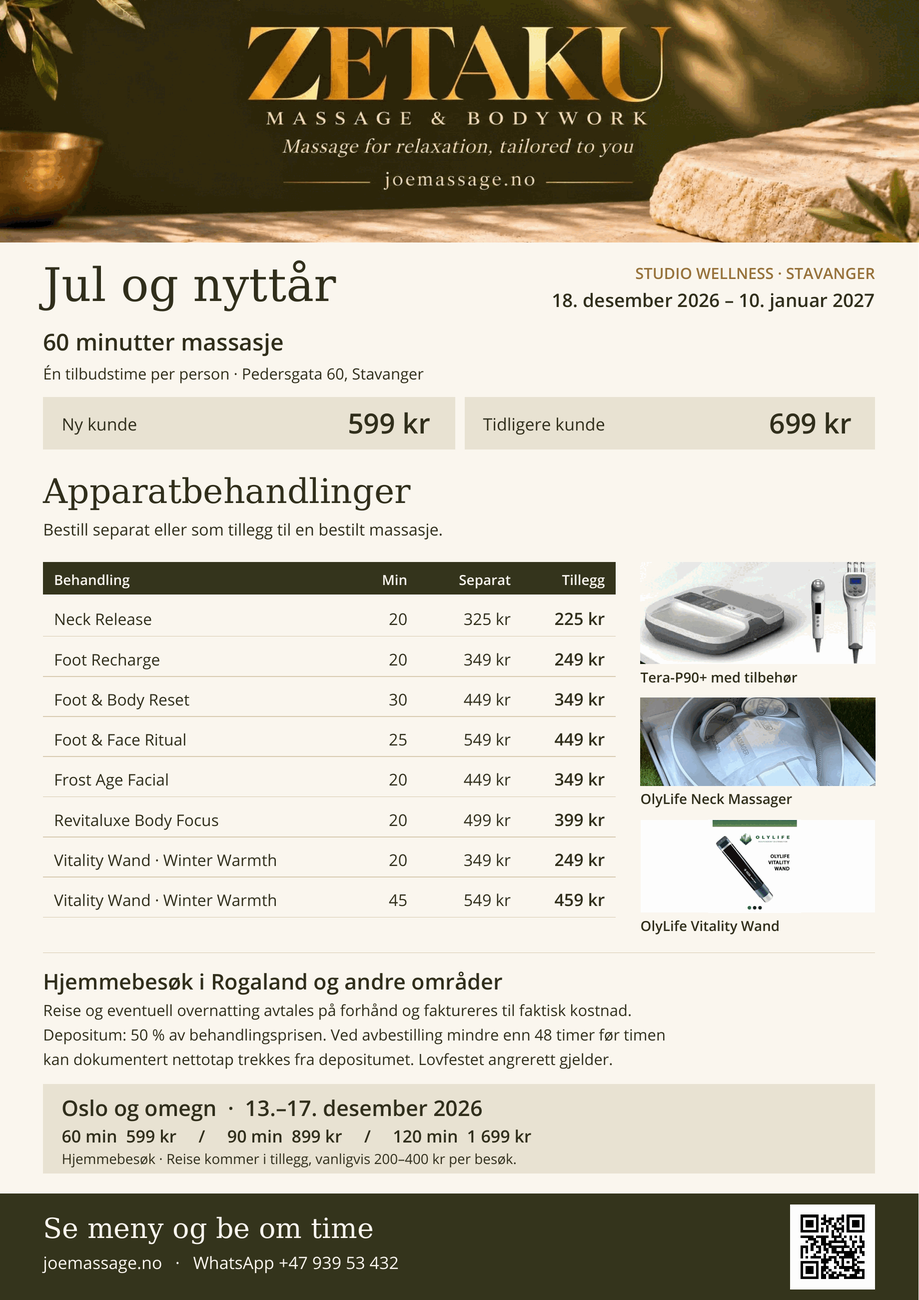
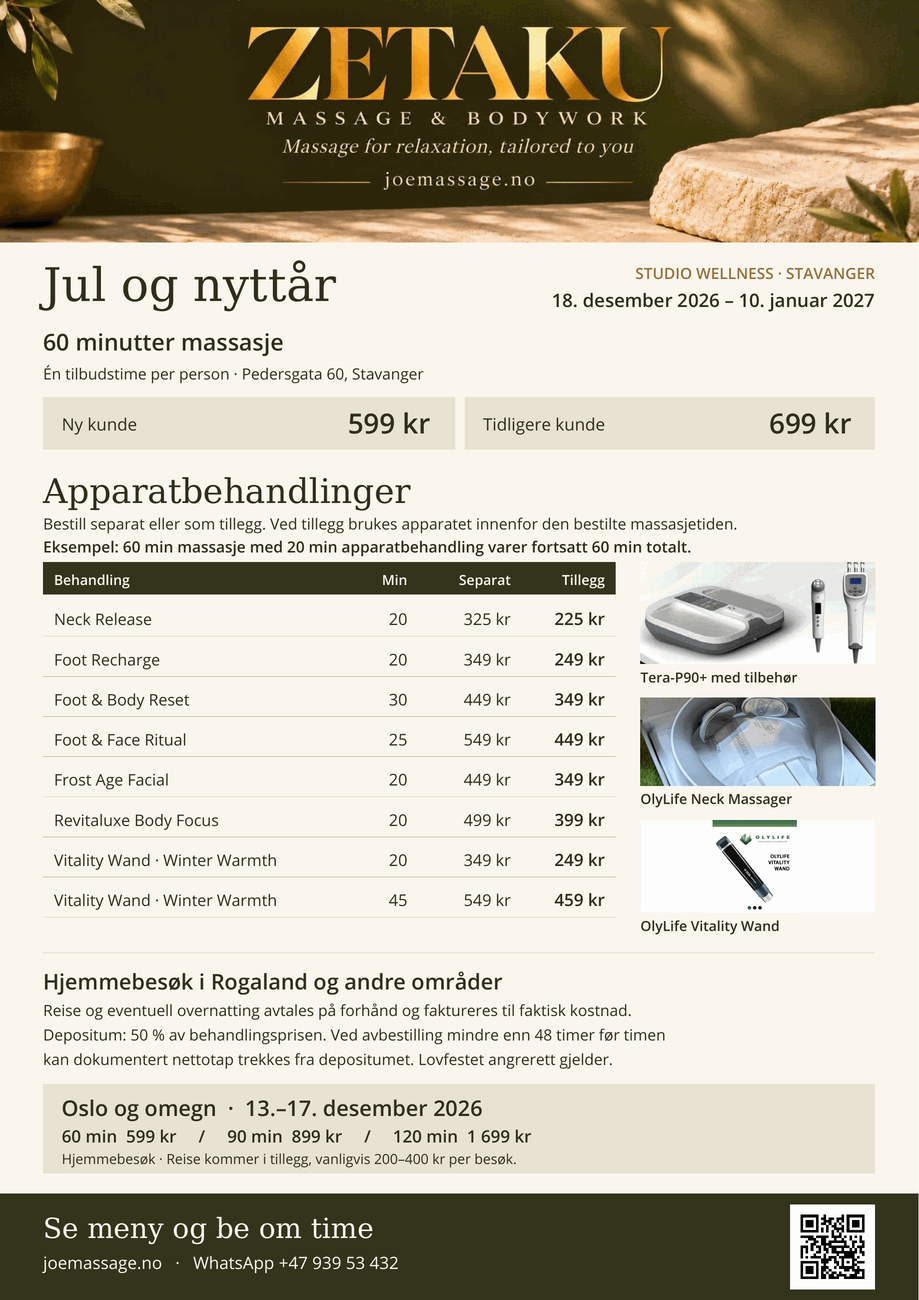
Count device add-ons within booked massage time on website, requests and posters

Changed region(s): [[0.031, 0.405, 0.7439, 0.4362]]

diff --git a/index.html b/index.html
@@ -223,7 +223,7 @@
                 </a>
                 <a class="link-btn inline-flex items-center justify-center px-6 py-4 rounded-2xl border-2 border-[#2C5F2D] font-semibold" href="#device-treatments">Device Treatments</a>
             </div>
-            <p class="mt-3 text-sm text-[#495649]">For an add-on, book your main massage session first. You can also book a device treatment on its own.</p>
+            <p class="mt-3 text-sm text-[#495649]">Book your main massage first. Any device add-on takes place within the time you book. You can also book a device treatment on its own.</p>
 
             <div class="mt-8 flex justify-center gap-6 text-sm text-[#6B766B]">
                 <div class="flex items-center gap-2">
@@ -262,13 +262,13 @@
 </tbody></table>
 <p><a href="#device-treatments" id="oslo-devices" class="font-semibold underline">Explore device sessions and massage add-ons</a></p>
 </div></section>
[1 lines of base64/hex data omitted]
-<details class="zt-card"><summary><span><strong>Foot Recharge</strong><small>Seated foot-platform session</small></span><b>20 min</b></summary><div class="zt-inner"><p>Rest your bare feet on the seated Tera-P90+ platform. OlyLife describes its two technologies as pulsed electromagnetic fields (PEMF) and terahertz (THz).</p><div class="zt-options"><div><small>Standalone session</small><strong>349 NOK</strong><small>Standard after launch 499 NOK</small><a aria-label="Request a session – Foot Recharge" href="https://wa.me/4793953432?text=Hi%20Joe!%20I%20would%20like%20to%20book%20a%20standalone%20Foot%20Recharge%20session%20(20%20min%2C%20launch%20price%20349%20NOK).%20My%20preferred%20date%20or%20existing%20booking%20is%3A%20">Request a session</a></div><div><small>Massage add-on</small><strong>249 NOK</strong><small>Standard after launch 399 NOK</small><a aria-label="Request an add-on – Foot Recharge" href="https://wa.me/4793953432?text=Hi%20Joe!%20I%20would%20like%20to%20add%20Foot%20Recharge%20to%20my%20existing%20massage%20booking%20(20%20min%2C%20launch%20price%20249%20NOK).%20My%20preferred%20date%20or%20existing%20booking%20is%3A%20">Request an add-on</a></div></div></div></details>
-<details class="zt-card"><summary><span><strong>Foot & Body Reset</strong><small>20 minutes for feet · 10 for one body area</small></span><b>30 min</b></summary><div class="zt-inner"><p>Rest your bare feet on the seated Tera-P90+ platform. OlyLife describes its two technologies as pulsed electromagnetic fields (PEMF) and terahertz (THz). Finish with ten minutes of Revitaluxe massage on one area of your choice. The Revitaluxe handheld massager combines pulsed, static and rotating magnetic fields with electrical muscle stimulation (EMS), transcutaneous electrical nerve stimulation (TENS) and red light. Bring your own OlyLife body gel and save 50 NOK on each appointment that uses it. A personal body gel is available for 400 NOK.</p><div class="zt-options"><div><small>Standalone session</small><strong>449 NOK</strong><small>Standard after launch 599 NOK</small><a aria-label="Request a session – Foot & Body Reset" href="https://wa.me/4793953432?text=Hi%20Joe!%20I%20would%20like%20to%20book%20a%20standalone%20Foot%20%26%20Body%20Reset%20session%20(30%20min%2C%20launch%20price%20449%20NOK).%20My%20preferred%20date%20or%20existing%20booking%20is%3A%20">Request a session</a></div><div><small>Massage add-on</small><strong>349 NOK</strong><small>Standard after launch 499 NOK</small><a aria-label="Request an add-on – Foot & Body Reset" href="https://wa.me/4793953432?text=Hi%20Joe!%20I%20would%20like%20to%20add%20Foot%20%26%20Body%20Reset%20to%20my%20existing%20massage%20booking%20(30%20min%2C%20launch%20price%20349%20NOK).%20My%20preferred%20date%20or%20existing%20booking%20is%3A%20">Request an add-on</a></div></div></div></details>
-<details class="zt-card"><summary><span><strong>Foot & Face Ritual</strong><small>Foot platform and facial care in one visit</small></span><b>25 min</b></summary><div class="zt-inner"><p>A 25-minute appointment combining the P90+ foot platform (PEMF and THz) with a Frost Age facial. The Frost Age facial device pairs radiofrequency (RF) with electrical muscle stimulation (EMS). Complimentary Korean skincare is optional. Choose studio cleansing and finishing products from RIMAN or REPOVE, or bring your own skincare for use before and after the device. Bring your own OlyLife facial gel and save 50 NOK on each appointment that uses it. A personal facial gel is available for 400 NOK.</p><div class="zt-options"><div><small>Standalone session</small><strong>549 NOK</strong><small>Standard after launch 699 NOK</small><a aria-label="Request a session – Foot & Face Ritual" href="https://wa.me/4793953432?text=Hi%20Joe!%20I%20would%20like%20to%20book%20a%20standalone%20Foot%20%26%20Face%20Ritual%20session%20(25%20min%2C%20launch%20price%20549%20NOK).%20My%20preferred%20date%20or%20existing%20booking%20is%3A%20">Request a session</a></div><div><small>Massage add-on</small><strong>449 NOK</strong><small>Standard after launch 599 NOK</small><a aria-label="Request an add-on – Foot & Face Ritual" href="https://wa.me/4793953432?text=Hi%20Joe!%20I%20would%20like%20to%20add%20Foot%20%26%20Face%20Ritual%20to%20my%20existing%20massage%20booking%20(25%20min%2C%20launch%20price%20449%20NOK).%20My%20preferred%20date%20or%20existing%20booking%20is%3A%20">Request an add-on</a></div></div></div></details>
-<details class="zt-card"><summary><span><strong>Frost Age Facial</strong><small>A dedicated facial session</small></span><b>20 min</b></summary><div class="zt-inner"><p>The Frost Age facial device pairs radiofrequency (RF) with electrical muscle stimulation (EMS). Complimentary Korean skincare is optional. Choose studio cleansing and finishing products from RIMAN or REPOVE, or bring your own skincare for use before and after the device. This facial is booked on its own, without the foot platform. Bring your own OlyLife facial gel and save 50 NOK on each appointment that uses it. A personal facial gel is available for 400 NOK.</p><div class="zt-options"><div><small>Standalone session</small><strong>449 NOK</strong><small>Standard after launch 599 NOK</small><a aria-label="Request a session – Frost Age Facial" href="https://wa.me/4793953432?text=Hi%20Joe!%20I%20would%20like%20to%20book%20a%20standalone%20Frost%20Age%20Facial%20session%20(20%20min%2C%20launch%20price%20449%20NOK).%20My%20preferred%20date%20or%20existing%20booking%20is%3A%20">Request a session</a></div><div><small>Massage add-on</small><strong>349 NOK</strong><small>Standard after launch 499 NOK</small><a aria-label="Request an add-on – Frost Age Facial" href="https://wa.me/4793953432?text=Hi%20Joe!%20I%20would%20like%20to%20add%20Frost%20Age%20Facial%20to%20my%20existing%20massage%20booking%20(20%20min%2C%20launch%20price%20349%20NOK).%20My%20preferred%20date%20or%20existing%20booking%20is%3A%20">Request an add-on</a></div></div></div></details>
-<details class="zt-card"><summary><span><strong>Revitaluxe Body Focus</strong><small>20 minutes for one body area</small></span><b>20 min</b></summary><div class="zt-inner"><p>Choose one area, such as a shoulder or calf, for focused device massage at a comfortable setting. The Revitaluxe handheld massager combines pulsed, static and rotating magnetic fields with electrical muscle stimulation (EMS), transcutaneous electrical nerve stimulation (TENS) and red light. Bring your own OlyLife body gel and save 50 NOK on each appointment that uses it. A personal body gel is available for 400 NOK.</p><div class="zt-options"><div><small>Standalone session</small><strong>499 NOK</strong><small>Standard after launch 649 NOK</small><a aria-label="Request a session – Revitaluxe Body Focus" href="https://wa.me/4793953432?text=Hi%20Joe!%20I%20would%20like%20to%20book%20a%20standalone%20Revitaluxe%20Body%20Focus%20session%20(20%20min%2C%20launch%20price%20499%20NOK).%20My%20preferred%20date%20or%20existing%20booking%20is%3A%20">Request a session</a></div><div><small>Massage add-on</small><strong>399 NOK</strong><small>Standard after launch 549 NOK</small><a aria-label="Request an add-on – Revitaluxe Body Focus" href="https://wa.me/4793953432?text=Hi%20Joe!%20I%20would%20like%20to%20add%20Revitaluxe%20Body%20Focus%20to%20my%20existing%20massage%20booking%20(20%20min%2C%20launch%20price%20399%20NOK).%20My%20preferred%20date%20or%20existing%20booking%20is%3A%20">Request an add-on</a></div></div></div></details>
-<details class="zt-card" id="vitality-wand"><summary><span><strong>Vitality Wand Winter Warmth</strong><small>A warming ritual for cold days</small></span><b>20 or 45 min</b></summary><div class="zt-inner"><p>If warmth helps you unwind, settle in while Joe guides a stream of warm air over your chosen area. Choose 20 minutes for a short winter break or 45 minutes for a slower session. For the add-on price, book your main massage first.</p><img src="assets/vitality-wand.webp" alt="OlyLife Vitality Wand handheld device" loading="lazy" decoding="async" style="width:100%;max-width:215px;height:auto;margin:1rem auto;border-radius:12px"><h3>20 minutes</h3><div class="zt-options"><div><small>Standalone session</small><strong>349 NOK</strong><small>Standard after launch 499 NOK</small><a aria-label="Request 20-minute Vitality Wand Standalone session" href="https://wa.me/4793953432?text=Hi%20Joe!%20I'd%20like%20to%20book%20a%20standalone%20Vitality%20Wand%20Winter%20Warmth%20session%20(20%20minutes%2C%20349%20NOK).%20My%20preferred%20date%20or%20existing%20booking%20is%3A%20">Request session</a></div><div><small>Massage add-on</small><strong>249 NOK</strong><small>Standard after launch 399 NOK</small><a aria-label="Request 20-minute Vitality Wand Massage add-on" href="https://wa.me/4793953432?text=Hi%20Joe!%20I'd%20like%20to%20add%20the%20Vitality%20Wand%20Winter%20Warmth%20treatment%20to%20my%20existing%20massage%20booking%20(20%20minutes%2C%20249%20NOK).%20My%20preferred%20date%20or%20existing%20booking%20is%3A%20">Request add-on</a></div></div><h3>45 minutes</h3><div class="zt-options"><div><small>Standalone session</small><strong>549 NOK</strong><small>Standard after launch 699 NOK</small><a aria-label="Request 45-minute Vitality Wand Standalone session" href="https://wa.me/4793953432?text=Hi%20Joe!%20I'd%20like%20to%20book%20a%20standalone%20Vitality%20Wand%20Winter%20Warmth%20session%20(45%20minutes%2C%20549%20NOK).%20My%20preferred%20date%20or%20existing%20booking%20is%3A%20">Request session</a></div><div><small>Massage add-on</small><strong>459 NOK</strong><small>Standard after launch 609 NOK</small><a aria-label="Request 45-minute Vitality Wand Massage add-on" href="https://wa.me/4793953432?text=Hi%20Joe!%20I'd%20like%20to%20add%20the%20Vitality%20Wand%20Winter%20Warmth%20treatment%20to%20my%20existing%20massage%20booking%20(45%20minutes%2C%20459%20NOK).%20My%20preferred%20date%20or%20existing%20booking%20is%3A%20">Request add-on</a></div></div><p>OlyLife’s guide specifies at least 20 cm between the air outlet and skin, a comfortable heat setting and a maximum of 45 minutes per use. The guide advises against use during menstruation.</p></div></details>
[1 lines of base64/hex data omitted]
+<details class="zt-card"><summary><span><strong>Foot Recharge</strong><small>Seated foot-platform session</small></span><b>20 min</b></summary><div class="zt-inner"><p>Rest your bare feet on the seated Tera-P90+ platform. OlyLife describes its two technologies as pulsed electromagnetic fields (PEMF) and terahertz (THz).</p><div class="zt-options"><div><small>Standalone session</small><strong>349 NOK</strong><small>Standard after launch 499 NOK</small><a aria-label="Request a session – Foot Recharge" href="https://wa.me/4793953432?text=Hi%20Joe!%20I%20would%20like%20to%20book%20a%20standalone%20Foot%20Recharge%20session%20(20%20min%2C%20launch%20price%20349%20NOK).%20My%20preferred%20date%20or%20existing%20booking%20is%3A%20">Request a session</a></div><div><small>Add-on within booked massage time</small><strong>249 NOK</strong><small>Standard after launch 399 NOK</small><a aria-label="Request an add-on – Foot Recharge" href="https://wa.me/4793953432?text=Hi%20Joe!%20I%20would%20like%20to%20add%20Foot%20Recharge%20to%20my%20existing%20massage%20booking%20(20%20min%2C%20launch%20price%20249%20NOK).%20My%20preferred%20date%20or%20existing%20booking%20is%3A%20">Request an add-on</a></div></div></div></details>
+<details class="zt-card"><summary><span><strong>Foot & Body Reset</strong><small>20 minutes for feet · 10 for one body area</small></span><b>30 min</b></summary><div class="zt-inner"><p>Rest your bare feet on the seated Tera-P90+ platform. OlyLife describes its two technologies as pulsed electromagnetic fields (PEMF) and terahertz (THz). Finish with ten minutes of Revitaluxe massage on one area of your choice. The Revitaluxe handheld massager combines pulsed, static and rotating magnetic fields with electrical muscle stimulation (EMS), transcutaneous electrical nerve stimulation (TENS) and red light. Bring your own OlyLife body gel and save 50 NOK on each appointment that uses it. A personal body gel is available for 400 NOK.</p><div class="zt-options"><div><small>Standalone session</small><strong>449 NOK</strong><small>Standard after launch 599 NOK</small><a aria-label="Request a session – Foot & Body Reset" href="https://wa.me/4793953432?text=Hi%20Joe!%20I%20would%20like%20to%20book%20a%20standalone%20Foot%20%26%20Body%20Reset%20session%20(30%20min%2C%20launch%20price%20449%20NOK).%20My%20preferred%20date%20or%20existing%20booking%20is%3A%20">Request a session</a></div><div><small>Add-on within booked massage time</small><strong>349 NOK</strong><small>Standard after launch 499 NOK</small><a aria-label="Request an add-on – Foot & Body Reset" href="https://wa.me/4793953432?text=Hi%20Joe!%20I%20would%20like%20to%20add%20Foot%20%26%20Body%20Reset%20to%20my%20existing%20massage%20booking%20(30%20min%2C%20launch%20price%20349%20NOK).%20My%20preferred%20date%20or%20existing%20booking%20is%3A%20">Request an add-on</a></div></div></div></details>
+<details class="zt-card"><summary><span><strong>Foot & Face Ritual</strong><small>Foot platform and facial care in one visit</small></span><b>25 min</b></summary><div class="zt-inner"><p>A 25-minute appointment combining the P90+ foot platform (PEMF and THz) with a Frost Age facial. The Frost Age facial device pairs radiofrequency (RF) with electrical muscle stimulation (EMS). Complimentary Korean skincare is optional. Choose studio cleansing and finishing products from RIMAN or REPOVE, or bring your own skincare for use before and after the device. Bring your own OlyLife facial gel and save 50 NOK on each appointment that uses it. A personal facial gel is available for 400 NOK.</p><div class="zt-options"><div><small>Standalone session</small><strong>549 NOK</strong><small>Standard after launch 699 NOK</small><a aria-label="Request a session – Foot & Face Ritual" href="https://wa.me/4793953432?text=Hi%20Joe!%20I%20would%20like%20to%20book%20a%20standalone%20Foot%20%26%20Face%20Ritual%20session%20(25%20min%2C%20launch%20price%20549%20NOK).%20My%20preferred%20date%20or%20existing%20booking%20is%3A%20">Request a session</a></div><div><small>Add-on within booked massage time</small><strong>449 NOK</strong><small>Standard after launch 599 NOK</small><a aria-label="Request an add-on – Foot & Face Ritual" href="https://wa.me/4793953432?text=Hi%20Joe!%20I%20would%20like%20to%20add%20Foot%20%26%20Face%20Ritual%20to%20my%20existing%20massage%20booking%20(25%20min%2C%20launch%20price%20449%20NOK).%20My%20preferred%20date%20or%20existing%20booking%20is%3A%20">Request an add-on</a></div></div></div></details>
+<details class="zt-card"><summary><span><strong>Frost Age Facial</strong><small>A dedicated facial session</small></span><b>20 min</b></summary><div class="zt-inner"><p>The Frost Age facial device pairs radiofrequency (RF) with electrical muscle stimulation (EMS). Complimentary Korean skincare is optional. Choose studio cleansing and finishing products from RIMAN or REPOVE, or bring your own skincare for use before and after the device. This facial is booked on its own, without the foot platform. Bring your own OlyLife facial gel and save 50 NOK on each appointment that uses it. A personal facial gel is available for 400 NOK.</p><div class="zt-options"><div><small>Standalone session</small><strong>449 NOK</strong><small>Standard after launch 599 NOK</small><a aria-label="Request a session – Frost Age Facial" href="https://wa.me/4793953432?text=Hi%20Joe!%20I%20would%20like%20to%20book%20a%20standalone%20Frost%20Age%20Facial%20session%20(20%20min%2C%20launch%20price%20449%20NOK).%20My%20preferred%20date%20or%20existing%20booking%20is%3A%20">Request a session</a></div><div><small>Add-on within booked massage time</small><strong>349 NOK</strong><small>Standard after launch 499 NOK</small><a aria-label="Request an add-on – Frost Age Facial" href="https://wa.me/4793953432?text=Hi%20Joe!%20I%20would%20like%20to%20add%20Frost%20Age%20Facial%20to%20my%20existing%20massage%20booking%20(20%20min%2C%20launch%20price%20349%20NOK).%20My%20preferred%20date%20or%20existing%20booking%20is%3A%20">Request an add-on</a></div></div></div></details>
+<details class="zt-card"><summary><span><strong>Revitaluxe Body Focus</strong><small>20 minutes for one body area</small></span><b>20 min</b></summary><div class="zt-inner"><p>Choose one area, such as a shoulder or calf, for focused device massage at a comfortable setting. The Revitaluxe handheld massager combines pulsed, static and rotating magnetic fields with electrical muscle stimulation (EMS), transcutaneous electrical nerve stimulation (TENS) and red light. Bring your own OlyLife body gel and save 50 NOK on each appointment that uses it. A personal body gel is available for 400 NOK.</p><div class="zt-options"><div><small>Standalone session</small><strong>499 NOK</strong><small>Standard after launch 649 NOK</small><a aria-label="Request a session – Revitaluxe Body Focus" href="https://wa.me/4793953432?text=Hi%20Joe!%20I%20would%20like%20to%20book%20a%20standalone%20Revitaluxe%20Body%20Focus%20session%20(20%20min%2C%20launch%20price%20499%20NOK).%20My%20preferred%20date%20or%20existing%20booking%20is%3A%20">Request a session</a></div><div><small>Add-on within booked massage time</small><strong>399 NOK</strong><small>Standard after launch 549 NOK</small><a aria-label="Request an add-on – Revitaluxe Body Focus" href="https://wa.me/4793953432?text=Hi%20Joe!%20I%20would%20like%20to%20add%20Revitaluxe%20Body%20Focus%20to%20my%20existing%20massage%20booking%20(20%20min%2C%20launch%20price%20399%20NOK).%20My%20preferred%20date%20or%20existing%20booking%20is%3A%20">Request an add-on</a></div></div></div></details>
+<details class="zt-card" id="vitality-wand"><summary><span><strong>Vitality Wand Winter Warmth</strong><small>A warming ritual for cold days</small></span><b>20 or 45 min</b></summary><div class="zt-inner"><p>If warmth helps you unwind, settle in while Joe guides a stream of warm air over your chosen area. Choose 20 minutes for a short winter break or 45 minutes for a slower session. For the add-on price, book your main massage first.</p><img src="assets/vitality-wand.webp" alt="OlyLife Vitality Wand handheld device" loading="lazy" decoding="async" style="width:100%;max-width:215px;height:auto;margin:1rem auto;border-radius:12px"><h3>20 minutes</h3><div class="zt-options"><div><small>Standalone session</small><strong>349 NOK</strong><small>Standard after launch 499 NOK</small><a aria-label="Request 20-minute Vitality Wand Standalone session" href="https://wa.me/4793953432?text=Hi%20Joe!%20I'd%20like%20to%20book%20a%20standalone%20Vitality%20Wand%20Winter%20Warmth%20session%20(20%20minutes%2C%20349%20NOK).%20My%20preferred%20date%20or%20existing%20booking%20is%3A%20">Request session</a></div><div><small>Add-on within booked massage time</small><strong>249 NOK</strong><small>Standard after launch 399 NOK</small><a aria-label="Request 20-minute Vitality Wand Massage add-on" href="https://wa.me/4793953432?text=Hi%20Joe!%20I'd%20like%20to%20add%20the%20Vitality%20Wand%20Winter%20Warmth%20treatment%20to%20my%20existing%20massage%20booking%20(20%20minutes%2C%20249%20NOK).%20My%20preferred%20date%20or%20existing%20booking%20is%3A%20">Request add-on</a></div></div><h3>45 minutes</h3><div class="zt-options"><div><small>Standalone session</small><strong>549 NOK</strong><small>Standard after launch 699 NOK</small><a aria-label="Request 45-minute Vitality Wand Standalone session" href="https://wa.me/4793953432?text=Hi%20Joe!%20I'd%20like%20to%20book%20a%20standalone%20Vitality%20Wand%20Winter%20Warmth%20session%20(45%20minutes%2C%20549%20NOK).%20My%20preferred%20date%20or%20existing%20booking%20is%3A%20">Request session</a></div><div><small>Add-on within booked massage time</small><strong>459 NOK</strong><small>Standard after launch 609 NOK</small><a aria-label="Request 45-minute Vitality Wand Massage add-on" href="https://wa.me/4793953432?text=Hi%20Joe!%20I'd%20like%20to%20add%20the%20Vitality%20Wand%20Winter%20Warmth%20treatment%20to%20my%20existing%20massage%20booking%20(45%20minutes%2C%20459%20NOK).%20My%20preferred%20date%20or%20existing%20booking%20is%3A%20">Request add-on</a></div></div><p>OlyLife’s guide specifies at least 20 cm between the air outlet and skin, a comfortable heat setting and a maximum of 45 minutes per use. The guide advises against use during menstruation.</p></div></details>
 <details class="zt-info" id="pemf-guide"><summary>What is PEMF? · Illustrated guide</summary><div class="zt-inner"><p>This ZETAKU infographic summarises a presentation on pulsed electromagnetic fields and includes OlyLife’s claims. Clinical results depend on the device and its intended use. The bone-healing example refers to prescription bone growth stimulators. The health outcomes pictured have not been established for our P90+ wellness session.</p><a href="https://www.accessdata.fda.gov/scripts/cdrh/cfdocs/cfpcd_rh/classification.cfm?PCD=LOF">FDA information on prescription bone growth stimulators</a><a href="assets/pemf.webp"><img src="assets/pemf.webp" alt="Open the full-size ZETAKU infographic about pulsed electromagnetic fields" loading="lazy" decoding="async" style="width:100%;max-width:870px;height:auto;margin:1rem auto;border-radius:12px">View the full-size infographic</a></div></details>
 <details class="zt-info"><summary>Before you book · precautions and repeat visits</summary><div class="zt-inner"><p>These are complementary wellness and cosmetic sessions. If you have a pacemaker or another implanted electronic device, skip electrical or magnetic device sessions. If you are pregnant, have epilepsy, a serious heart condition, uncontrolled high blood pressure, an acute illness or an infection, seek medical advice before booking. Tell Joe about sensitivities before choosing skincare. Stop the session if a setting feels painful or uncomfortable.</p><p>Thinking of booking several visits? Ask Joe to check the instructions for your specific device and attachment before setting a schedule.</p><a href="https://www.youtube.com/watch?v=JaPZTVJLYfk">Watch the P90/P90+ safety advisory</a></div></details>
 <details class="zt-info"><summary>Home devices and personal gels</summary><div class="zt-inner"><p><strong>Neck Massager (uNeck-9821) · 1,500 NOK.</strong> Request international delivery to your home or collection at the studio.</p><p><strong>Tera-P90+ complete set · USD 1,800–2,000.</strong> Includes the foot platform, body and facial attachments, one pair of gels and shipping to Norway. Import charges are payable by the buyer. Ask for a final quote for home or professional use.</p><p><strong>Personal facial or body gel · 400 NOK each.</strong> Bring the matching OlyLife gel to receive 50 NOK off each session where it is used.</p><a href="https://wa.me/4793953432?text=Hi%20Joe!%20I%20would%20like%20to%20enquire%20about%20ordering%20an%20OlyLife%20device%20or%20gel.">Enquire about a device or gel</a></div></details>

diff --git a/booking-request/index.html b/booking-request/index.html
@@ -34,7 +34,7 @@
               <option value="Revitaluxe Body Focus" data-minutes="20" data-price="399">Revitaluxe Body Focus · 20 min · +399 kr</option>
               <option value="Vitality Wand Winter Warmth" data-minutes="20" data-price="249">Vitality Wand Winter Warmth · 20 min · +249 kr</option>
               <option value="Vitality Wand Winter Warmth" data-minutes="45" data-price="459">Vitality Wand Winter Warmth · 45 min · +459 kr</option>
-            </select><span class="fine" id="device-help">Velg hovedmassasje først. Tid og pris for tillegget kommer i tillegg til massasjen. <a href="/#device-treatments">Se behandlingene og introduksjonsprisene</a>.</span></div>
+            </select><span class="fine" id="device-help">Velg hovedmassasje først. Apparatet brukes innenfor den bestilte massasjetiden. Du betaler ekstra for behandlingen, og timen slutter til avtalt tid. <a href="/#device-treatments">Se behandlingene og introduksjonsprisene</a>.</span></div>
           <div class="two"><div class="field"><label for="date">Ønsket dato *</label><input id="date" name="date" type="date" required></div><div class="field"><label for="time">Ønsket starttid *</label><input id="time" name="time" type="time" required></div></div>
           <div class="field"><label for="place">Område ved hjemmebesøk (valgfritt)</label><input id="place" maxlength="100" placeholder="Oppgi bydel eller område; adresse avtales senere"></div>
           <div class="field"><label for="note">Notat til Joe</label><textarea id="note" maxlength="800" placeholder="Spørsmål eller praktiske ønsker"></textarea><span class="fine">Ikke oppgi helseopplysninger eller full adresse her. Teksten sendes via WhatsApp eller SMS når du selv velger å sende den.</span></div>
@@ -81,8 +81,8 @@
       }).format(new Date($('date').value + 'T12:00:00Z'));
       const device = $('device').selectedOptions[0];
       const extra = device.value ? [
-        'Tilleggsbehandling: ' + device.value + ' · ' + device.dataset.minutes + ' min · +' + device.dataset.price + ' kr',
-        'Samlet varighet: ' + (Number($('duration').value) + Number(device.dataset.minutes)) + ' minutter'
+        'Tilleggsbehandling: ' + device.value + ' · ' + device.dataset.minutes + ' min av massasjetiden · +' + device.dataset.price + ' kr',
+        'Samlet varighet: ' + $('duration').value + ' minutter'
       ] : [];
       const message = [
         'Hei Joe! Jeg ønsker å spørre om massasjetime.', '',
